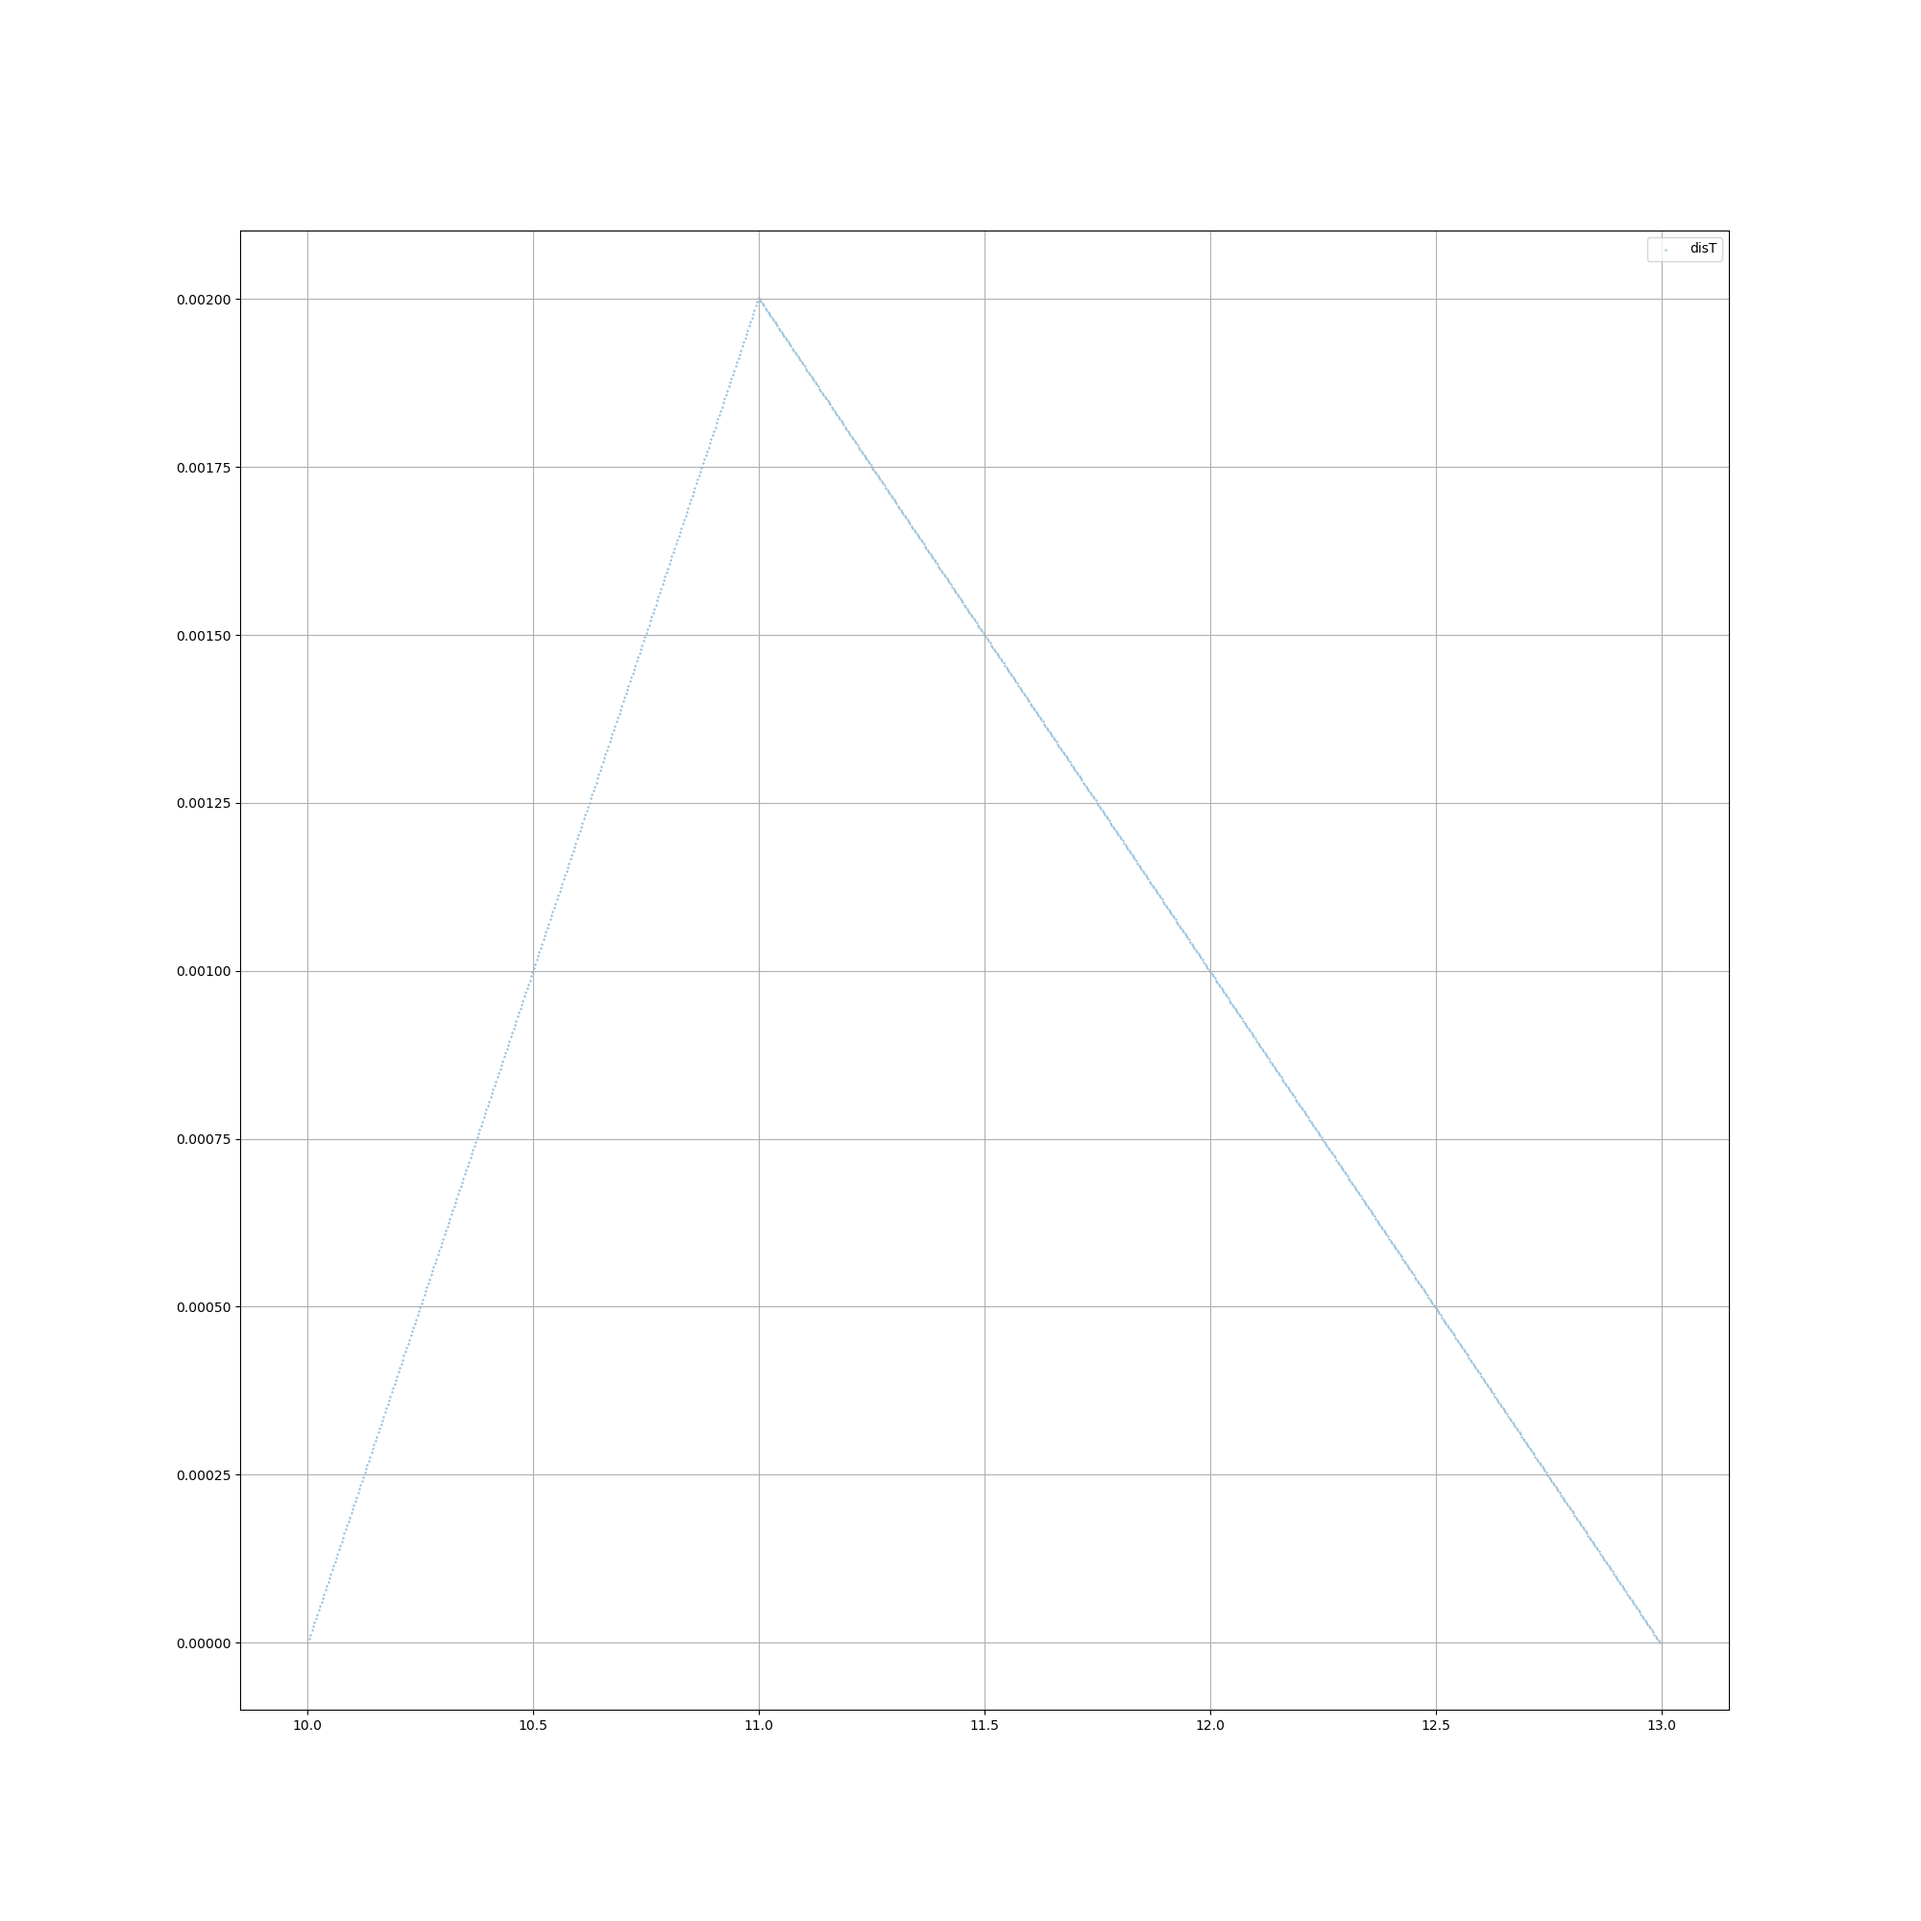
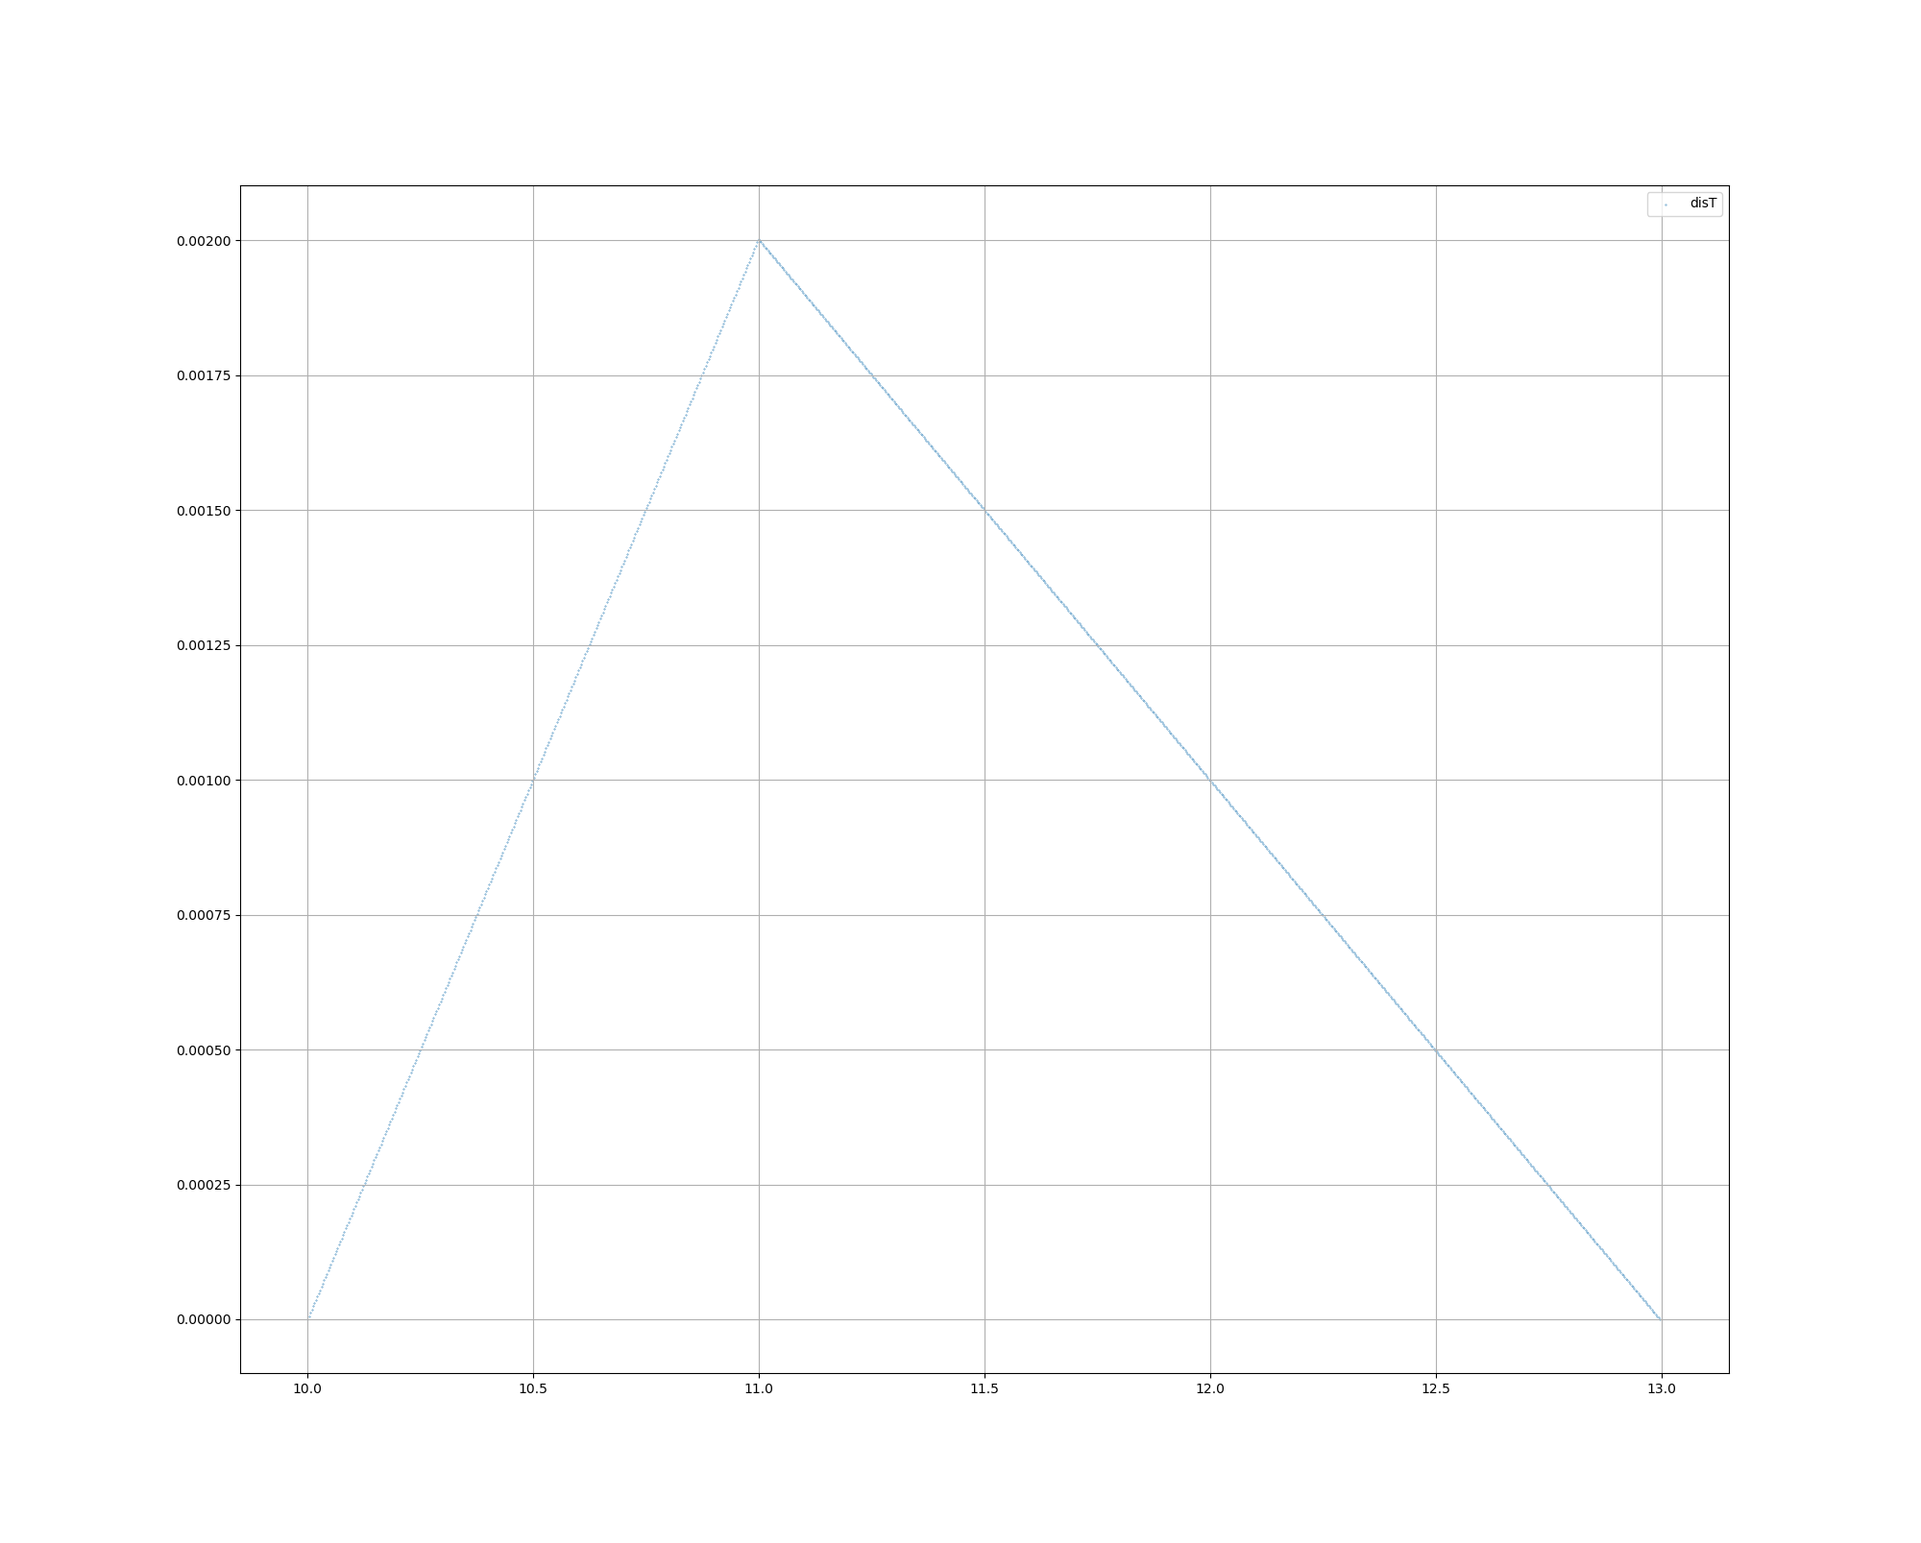
rename picture

diff --git a/examples/test_undis.py b/examples/test_undis.py
@@ -33,7 +33,7 @@ if True:
     plt.plot(disT.centers, disT.weights, label="disT")
     plt.grid()
     plt.legend()
-    plt.savefig(plotDir+"testUndis_basic Distributions.png")
+    plt.savefig(plotDir+"testUndis_basic_Distributions.png")
 
 
 # now lets get the sum of two distributions

diff --git a/readme.md b/readme.md
@@ -58,7 +58,7 @@ disT = undi("tri", leftPos=10, centerPos=11,rightPos=13) #note its asymmetric
 ```
 
 
-![The three distributions](examples/plots/testUndis_basic Distributions.png)
+![The three distributions](examples/plots/testUndis_basic_Distributions.png)
 
 ![Closeup of Tri](examples/plots/testUndis_tri_closeup.png)
 
